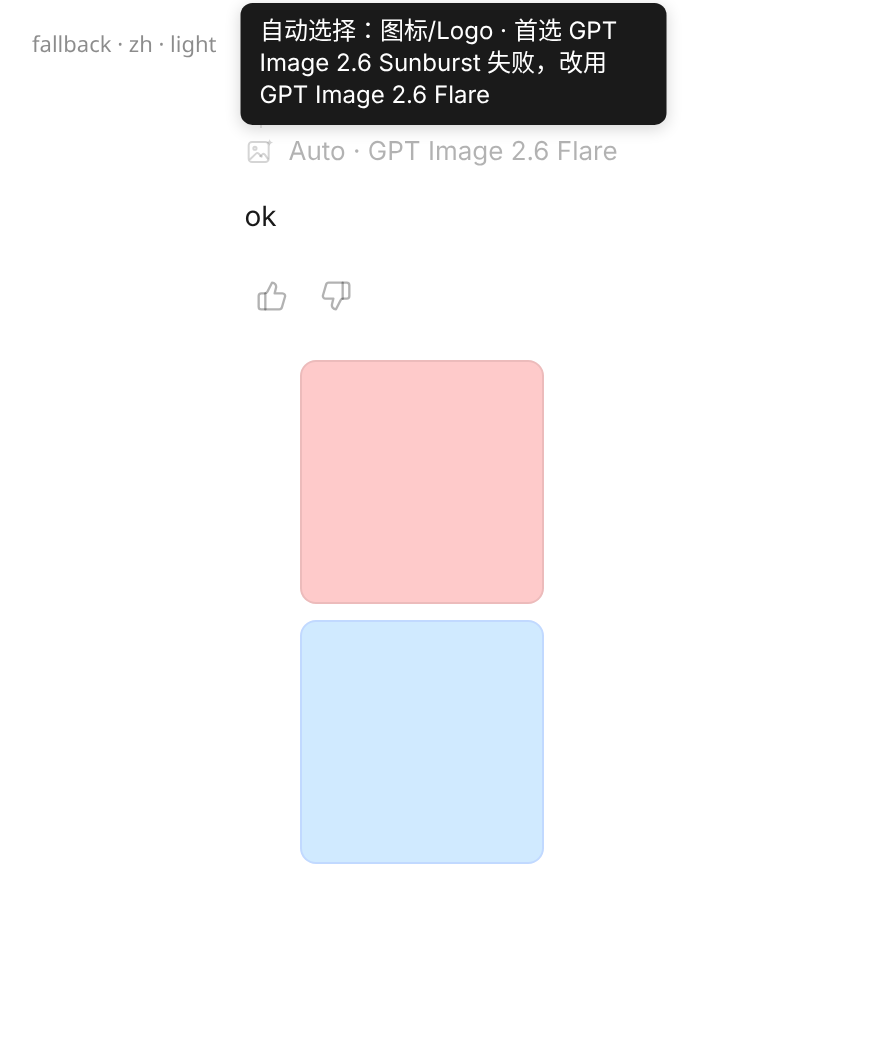
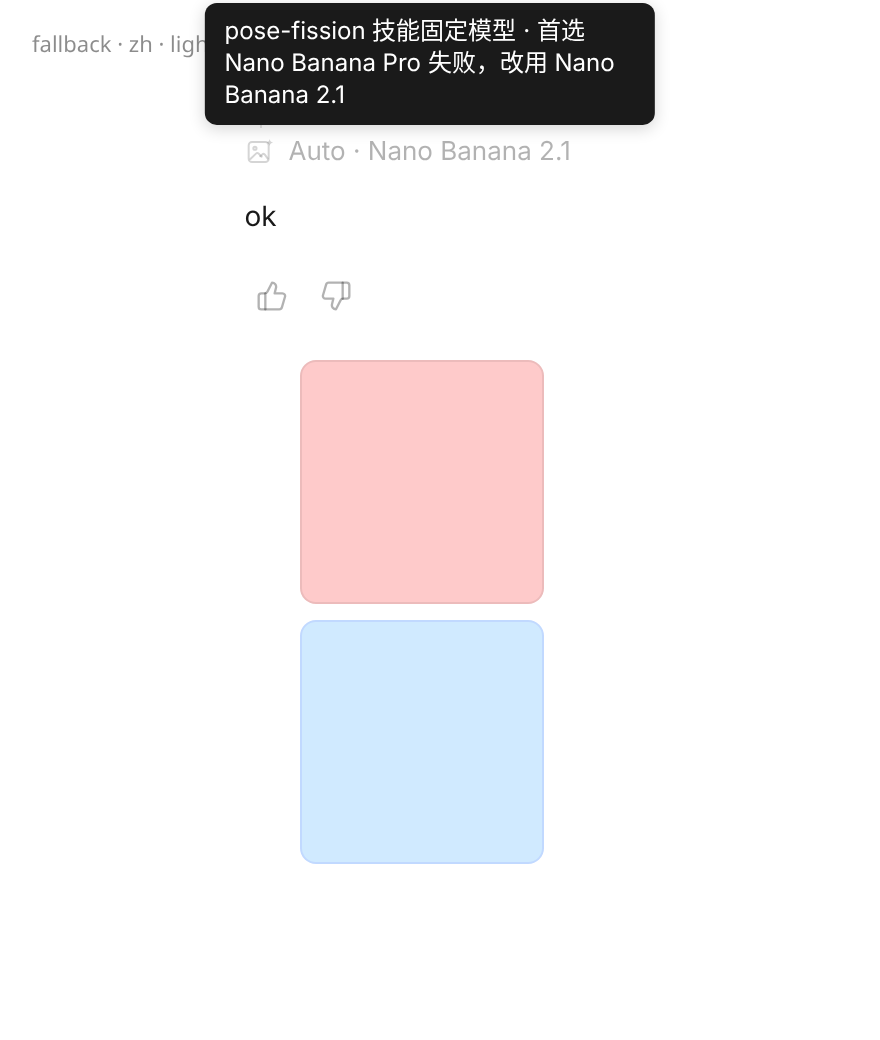
fix(#825): 09 uses real pose-fission skill fallback (no 自动选择：)
Skill pin / skill_fallback tips use i18n「{skill} 技能固定模型」with no
auto-picked prefix. Fallback choice built from auto_models.json pin
(primary failed → registered fallback). Fixture imports the table.
Unit tests assert 首选 model is the table primary. Re-shot 09+10.

diff --git a/tests/js/pill825/main.tsx b/tests/js/pill825/main.tsx
@@ -3,6 +3,8 @@ import { createRoot } from 'react-dom/client'
 import { AssistantBlocks } from '../../../src/ui/ChatMessage'
 import { TOOL_LABELS } from '../../../src/bot'
 import { setLang, t } from '../i18n_stub'
+import { skillPinReason } from '../../../src/autoPill'
+import autoTable from '../../../api/auto_models.json'
 
 const q = new URLSearchParams(location.search)
 const lang = q.get('lang') === 'en' ? 'en' : 'zh'
@@ -18,8 +20,15 @@ const res = (id: string, name: string, text: string, status = 'success') => (
 
 const sunburst = 'openai/gpt-image-2.6-sunburst/text-to-image'
 const flare = 'openai/gpt-image-2.6-flare/text-to-image'
-const banana = 'google/nano-banana-pro/edit'
 const longId = 'openai/gpt-image-2.6-sunburst-with-an-extremely-long-marketing-name-that-must-ellipsis/text-to-image'
+
+/** Real pose-fission pin from api/auto_models.json — not invented fixture pairs. */
+const posePin = (autoTable as { skills: Record<string, { model: string; fallback: string }> }).skills['pose-fission']
+if (!posePin?.model || !posePin?.fallback) throw new Error('pose-fission missing from auto_models.json')
+const poseSkill = 'pose-fission'
+const posePrimary = posePin.model       // what failed / pinned primary
+const poseFallback = posePin.fallback   // what ran after fallback
+const poseReason = skillPinReason(poseSkill)
 
 function choice(partial: Record<string, unknown>) {
   return JSON.stringify({ ids: ['shape:g1'], model_choice: partial, note: 'wait_generation' })
@@ -82,15 +91,17 @@ const cases: Record<string, { width?: number; msg: any; live?: boolean; thumbs?:
     },
   },
   fallback: {
+    // Real table pair: pose-fission primary failed → registered fallback ran (mirrors skill_fallback_choice)
     thumbs: true,
     msg: {
       id: 'a', role: 'assistant', status: 'done', blocks: [
-        { type: 'thinking', text: 'pick' },
-        use('g1', 'mcp__comfyart__generate_image', { prompt: 'logo' }),
+        { type: 'thinking', text: 'pose' },
+        use('g1', 'mcp__comfyart__generate_image', { prompt: 'pose', skill: poseSkill, auto_model: true }),
         res('g1', 'mcp__comfyart__generate_image', choice({
-          model: flare, auto: true, category: 'logo',
-          fallback: sunburst,
-          reason: { zh: '图标/Logo', en: 'icon / logo' },
+          model: poseFallback, auto: true, category: 'skill_fallback', skill: poseSkill,
+          fallback: posePrimary,
+          edit_model: poseFallback,
+          reason: poseReason,
         })),
         { type: 'text', text: 'ok' },
       ],
@@ -101,10 +112,11 @@ const cases: Record<string, { width?: number; msg: any; live?: boolean; thumbs?:
     msg: {
       id: 'a', role: 'assistant', status: 'done', blocks: [
         { type: 'thinking', text: 'pose' },
-        use('g1', 'mcp__comfyart__generate_image', { prompt: 'pose', skill: 'pose-fission', auto_model: true }),
+        use('g1', 'mcp__comfyart__generate_image', { prompt: 'pose', skill: poseSkill, auto_model: true }),
         res('g1', 'mcp__comfyart__generate_image', choice({
-          model: banana, auto: true, category: 'skill',
-          reason: { zh: 'pose-fission 技能固定模型', en: 'pose-fission skill pinned model' },
+          model: posePrimary, auto: true, category: 'skill', skill: poseSkill,
+          edit_model: posePrimary,
+          reason: poseReason,
         })),
         { type: 'text', text: 'ok' },
       ],

diff --git a/src/autoPill.ts b/src/autoPill.ts
@@ -5,6 +5,7 @@ export type ModelChoice = {
   model?: string
   auto?: boolean
   category?: string
+  skill?: string
   reason?: { zh?: string; en?: string } | string
   fallback?: string
   note?: string
@@ -63,6 +64,18 @@ function tipLang(lang: string): Lang {
   return lang.toLowerCase().startsWith('en') ? 'en' : 'zh'
 }
 
+function isSkillChoice(choice: ModelChoice): boolean {
+  return !!choice.skill || choice.category === 'skill' || choice.category === 'skill_fallback'
+}
+
+/** Mirrors api/auto_models.skill_pin_reason / chatMessage.skillPinnedModel. */
+export function skillPinReason(skill: string): { zh: string; en: string } {
+  return {
+    zh: tl('zh', 'chatMessage.skillPinnedModel', skill),
+    en: tl('en', 'chatMessage.skillPinnedModel', skill),
+  }
+}
+
 /** Visible label. Auto → 'Auto · <name>'; manual → name only; Auto with no model yet → 'Auto'; legacy empty → null. */
 export function autoPillLabel(choice: ModelChoice | null | undefined, catalogLabel?: string | null): string | null {
   if (!choice || typeof choice !== 'object') return null
@@ -75,16 +88,15 @@ export function autoPillLabel(choice: ModelChoice | null | undefined, catalogLab
   return name || null
 }
 
-/** Hover/tap reason. Manual: null (no reason UI). Auto: i18n prefix + table category; fallback note when set. */
+/** Hover/tap reason. Manual: null. Table Auto: i18n prefix + category. Skill pin: no prefix. */
 export function autoPillTooltip(choice: ModelChoice | null | undefined, lang: string): string | null {
   if (!choice || !choice.auto) return null
   const L = tipLang(lang)
-  const prefix = tl(L, 'chatMessage.autoPickedPrefix')
+  const prefix = isSkillChoice(choice) ? '' : tl(L, 'chatMessage.autoPickedPrefix')
   const category = reasonText(choice, L)
   const failed = choice.fallback
   const model = choice.model
   if (failed && model) {
-    // Design: `{prefix}{category} · 首选 X 失败，改用 Y` (category first; no trailing period+category)
     const body = L === 'en'
       ? `${category} · Preferred ${shortModelName(failed)} failed, used ${shortModelName(model)}`
       : `${category} · 首选 ${shortModelName(failed)} 失败，改用 ${shortModelName(model)}`

diff --git a/tests/test_auto_pill_825.py b/tests/test_auto_pill_825.py
@@ -53,21 +53,62 @@ def test_auto_before_model_known_shows_just_auto():
     assert auto_models.pill_label({}) is None  # legacy: no empty pill
 
 
-def test_fallback_tooltip_mentions_preferred_failed():
+def test_skill_pin_tooltip_has_no_auto_prefix():
     choice = {
-        "model": "openai/gpt-image-2.6-flare/text-to-image",
+        "model": "google/nano-banana-pro/edit",
         "auto": True,
-        "fallback": "openai/gpt-image-2.6-sunburst/text-to-image",
-        "reason": {"zh": "图标/Logo", "en": "icon / logo"},
+        "category": "skill",
+        "skill": "pose-fission",
+        "reason": auto_models.skill_pin_reason("pose-fission"),
     }
+    assert auto_models.pill_label(choice) == "Auto · Nano Banana Pro"
+    assert auto_models.pill_tooltip(choice, "zh") == "pose-fission 技能固定模型"
+    assert auto_models.pill_tooltip(choice, "en") == "pose-fission skill pinned model"
+    assert not auto_models.pill_tooltip(choice, "zh").startswith("自动选择")
+
+
+def test_pose_fission_fallback_matches_table_and_tip():
+    """09 fixture / real route: preferred in tip is the table's pinned model (no hardcoding)."""
+    pin = auto_models.skill_pin("pose-fission")
+    assert pin and pin.get("fallback"), "pose-fission must list a fallback in auto_models.json"
+    choice = auto_models.skill_fallback_choice("pose-fission")
+    # Used model is the registered fallback; failed (首选) is the pin primary
+    assert choice["model"] == pin["fallback"]
+    assert choice["fallback"] == pin["model"]
+    assert choice["category"] == "skill_fallback"
+    assert choice["reason"] == auto_models.skill_pin_reason("pose-fission")
+    # 首选 model in tip text must be whatever the table configures as primary
+    preferred_short = auto_models.short_name(pin["model"])
+    used_short = auto_models.short_name(pin["fallback"])
     tip = auto_models.pill_tooltip(choice, "zh")
-    assert tip == (
-        "自动选择：图标/Logo · 首选 GPT Image 2.6 Sunburst 失败，改用 GPT Image 2.6 Flare"
-    )
+    assert tip == f"pose-fission 技能固定模型 · 首选 {preferred_short} 失败，改用 {used_short}"
+    assert preferred_short in tip and f"首选 {preferred_short}" in tip
+    assert not tip.startswith("自动选择")
+    assert auto_models.pill_label(choice) == f"Auto · {used_short}"
     tip_en = auto_models.pill_tooltip(choice, "en")
     assert tip_en == (
-        "Auto-picked: icon / logo · Preferred GPT Image 2.6 Sunburst failed, used GPT Image 2.6 Flare"
+        f"pose-fission skill pinned model · Preferred {preferred_short} failed, used {used_short}"
     )
+
+
+def test_fallback_fixture_pair_is_registered_in_table():
+    """pill825 fallback case must use a real skills.*.fallback pair from auto_models.json."""
+    table = json.loads((ROOT / "api/auto_models.json").read_text(encoding="utf-8"))
+    main = (ROOT / "tests/js/pill825/main.tsx").read_text()
+    # Fixture imports the table and uses posePin.model / posePin.fallback
+    assert "auto_models.json" in main and "pose-fission" in main
+    pin = table["skills"]["pose-fission"]
+    assert pin["fallback"] == "google/nano-banana-2.1/edit"
+    assert pin["model"] == "google/nano-banana-pro/edit"
+    # Any skills row that lists fallback: model/fallback must match that row
+    for name, row in table["skills"].items():
+        if name.startswith("_") or not isinstance(row, dict):
+            continue
+        if not row.get("fallback"):
+            continue
+        choice = auto_models.skill_fallback_choice(name)
+        assert choice["fallback"] == row["model"]
+        assert choice["model"] == row["fallback"]
 
 
 def test_short_name_preserves_gpt_casing():
@@ -98,6 +139,8 @@ def test_frontend_auto_pill_mirrors_backend():
     assert "chatMessage.autoPickedPrefix" in (ROOT / "src/locales/zh.json").read_text()
     assert "自动选择：" in (ROOT / "src/locales/zh.json").read_text()
     assert "Auto-picked: " in (ROOT / "src/locales/en.json").read_text()
+    assert "chatMessage.skillPinnedModel" in (ROOT / "src/locales/zh.json").read_text()
+    assert "{0} 技能固定模型" in (ROOT / "src/locales/zh.json").read_text()
     assert "data-testid=\"auto-model-label\"" in chat or "auto-model-label" in chat
     gen = (ROOT / "src/shapes/GeneratorShape.tsx").read_text()
     assert "ca-gen-frame__model" in gen and "autoPillLabel" in gen

diff --git a/api/auto_models.py b/api/auto_models.py
@@ -53,6 +53,36 @@ def skill_pin(skill: str | None) -> dict | None:
     return dict(row) if isinstance(row, dict) else None
 
 
+def skill_pin_reason(skill: str) -> dict[str, str]:
+    """#825 tip category for a skill pin. Mirrors chatMessage.skillPinnedModel (zh/en)."""
+    s = str(skill)
+    return {"zh": f"{s} 技能固定模型", "en": f"{s} skill pinned model"}
+
+
+def skill_fallback_choice(skill: str) -> dict:
+    """#825: model_choice when a skill's pinned model failed and its registered fallback ran.
+
+    ``model`` is the table fallback (what ran); ``fallback`` is the pinned primary (what failed).
+    Reason is the same skill-pin wording as a successful pin — pill_tooltip adds 「 · 首选…」.
+    """
+    pin = skill_pin(skill)
+    if not pin or not pin.get("model") or not pin.get("fallback"):
+        raise ValueError(f"skill {skill!r} has no registered model/fallback in auto_models.json")
+    fb = pin["fallback"]
+    primary = pin["model"]
+    return {
+        "model": fb,
+        "auto": True,
+        "category": "skill_fallback",
+        "skill": str(skill),
+        "fallback": primary,
+        "edit_model": fb,
+        "resolution": pin.get("resolution"),
+        "ratio": pin.get("ratio"),
+        "reason": skill_pin_reason(skill),
+    }
+
+
 def tool_feature(tool: str) -> str | None:
     return next((f for f, spec in load_table().items() if spec["tool"] == tool or tool in (spec.get("masked") or {}).get("tools", [])), None)
 
@@ -254,14 +284,16 @@ _AUTO_PICKED_PREFIX = {"zh": "自动选择：", "en": "Auto-picked: "}
 def pill_tooltip(choice: dict, lang: str = "zh") -> str | None:
     """Hover/tap reason. Manual picks: None (UI shows no reason popup).
 
-    Auto: i18n prefix + table category. Fallback:
-    ``{prefix}{category} · 首选 X 失败，改用 Y`` / ``{prefix}{category} · Preferred X failed, used Y``.
+    Auto (table): i18n prefix + table category.
+    Skill pin / skill fallback: NO auto-picked prefix — skill wording only.
+    Fallback (any): ``{category} · 首选 X 失败，改用 Y`` (preferred = choice['fallback']).
     """
     if not isinstance(choice, dict) or not choice.get("auto"):
         return None
     en = str(lang).lower().startswith("en")
     key = "en" if en else "zh"
-    prefix = _AUTO_PICKED_PREFIX[key]
+    skillish = bool(choice.get("skill")) or choice.get("category") in ("skill", "skill_fallback")
+    prefix = "" if skillish else _AUTO_PICKED_PREFIX[key]
     category = reason_text(choice, key)
     failed = choice.get("fallback")
     model = choice.get("model")

diff --git a/api/mcp_tools/canvas.py b/api/mcp_tools/canvas.py
@@ -1,6 +1,6 @@
 import logging
 
-from ..auto_models import UnregisteredModel, choose, load_table, named_or_none, note, registered, skill_pin, tool_feature
+from ..auto_models import UnregisteredModel, choose, load_table, named_or_none, note, registered, skill_pin, skill_pin_reason, tool_feature
 from ..gif_image import choice as gif_choice, ensure_args as ensure_gif_args, requests_gif, still_block
 from ..svg_image import block_reason as svg_block, choice as svg_choice, ensure_args as ensure_svg_args, requests_svg
 from ..mcp_commands import submit_command
@@ -264,7 +264,7 @@ def _skill_choice(args: dict, pin: dict) -> dict:
         return {"model": pin["model"], "auto": True, "category": "skill_unregistered", "skill": skill,
                 "reason": {"zh": f"{skill} 固定的模型 {pin['model']} 不在模型列表里", "en": f"{pin['model']} pinned by {skill} is not in the model catalog"}}
     return {"model": pin["model"], "auto": True, "category": "skill", "skill": skill, "edit_model": pin["model"],
-            "resolution": pin.get("resolution"), "ratio": pin.get("ratio"), "reason": {"zh": pin["zh"], "en": pin["en"]}}
+            "resolution": pin.get("resolution"), "ratio": pin.get("ratio"), "reason": skill_pin_reason(skill)}
 
 
 def _skill_fallback(args: dict, pin: dict, failed: str) -> dict | None:
@@ -277,10 +277,10 @@ def _skill_fallback(args: dict, pin: dict, failed: str) -> dict | None:
         log.error("skill %s fallback %s is not in the catalog; not submitting", skill, fb)
         return None
     log.warning("skill %s: %s failed; falling back to %s", skill, failed, fb)
+    # #825: same skill-pin wording as a successful pin; pill_tooltip adds 「 · 首选…改用…」
     return {"model": fb, "auto": True, "category": "skill_fallback", "skill": skill, "fallback": failed, "edit_model": fb,
             "resolution": pin.get("resolution"), "ratio": pin.get("ratio"),
-            "reason": {"zh": f"{failed} 调用失败，按 {skill} 的登记改用备用模型 {fb}",
-                       "en": f"{failed} failed, so {skill}'s registered fallback {fb} was used"}}
+            "reason": skill_pin_reason(skill)}
 
 
 def _pin_args(args: dict, choice: dict) -> dict:

diff --git a/tests/js/pill825/shoot.py b/tests/js/pill825/shoot.py
@@ -86,6 +86,10 @@ def main():
             elif case == "failed":
                 assert "Auto ·" in label.inner_text()
                 assert page.locator("#gen .ca-process__row[data-error]").count() >= 1
+            elif case == "fallback":
+                assert label.inner_text().strip() == "Auto · Nano Banana 2.1", label.inner_text()
+            elif case == "skill":
+                assert label.inner_text().strip() == "Auto · Nano Banana Pro", label.inner_text()
             elif case == "ellipsis":
                 assert label.count() == 1
                 overflow = page.evaluate(
@@ -124,8 +128,14 @@ def main():
                     assert geom["sw"] <= geom["cw"] + 1, f"{name}: tip truncates horizontally {geom}"
                     assert geom["text"].strip(), f"{name}: empty tip"
                     if case == "fallback":
-                        assert "自动选择：" in geom["text"] and "首选" in geom["text"] and "改用" in geom["text"], geom["text"]
-                        assert " · " in geom["text"] and not geom["text"].rstrip().endswith("Logo"), geom["text"]
+                        # Skill-pin fallback: no 自动选择：; tip =「pose-fission 技能固定模型 · 首选 …」
+                        assert geom["text"].startswith("pose-fission 技能固定模型"), geom["text"]
+                        assert "首选" in geom["text"] and "改用" in geom["text"], geom["text"]
+                        assert "自动选择：" not in geom["text"], geom["text"]
+                        assert "Nano Banana Pro" in geom["text"] and "Nano Banana 2.1" in geom["text"], geom["text"]
+                    if case == "skill":
+                        assert geom["text"] == "pose-fission 技能固定模型", geom["text"]
+                        assert "自动选择：" not in geom["text"], geom["text"]
                     if case == "flip":
                         assert "自动选择：" in geom["text"] or "Auto-picked:" in geom["text"], geom["text"]
                         assert "flips below" not in geom["text"], geom["text"]
